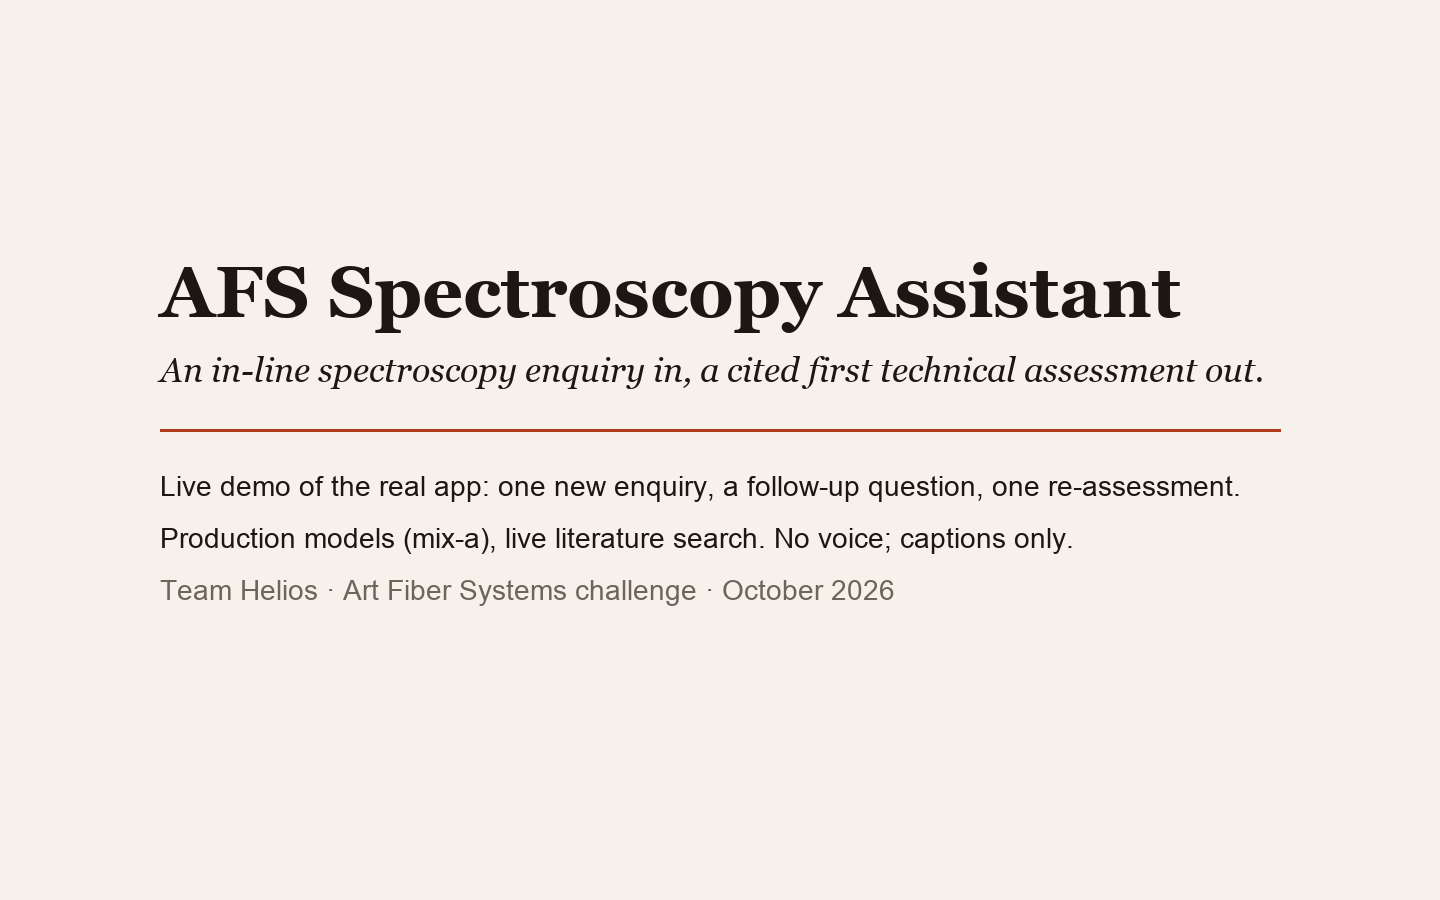
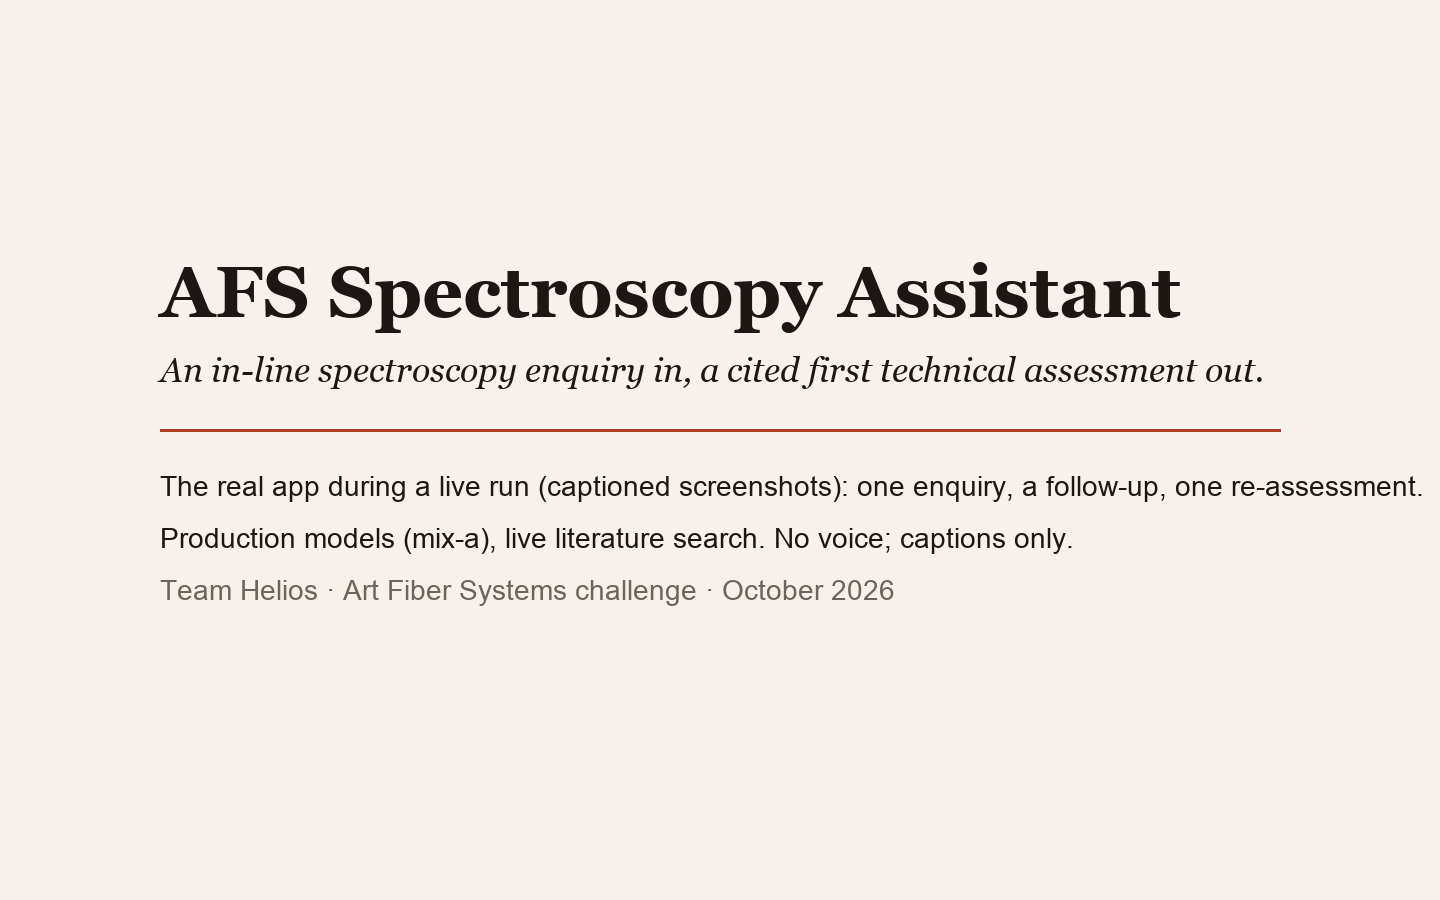
Video title card: captioned screenshots of a live run (not 'live demo'); SUBMISSION video length 2:53

Changed region(s): [[0.0938, 0.5289, 1.0, 0.56]]

diff --git a/docs/video/build_video.py b/docs/video/build_video.py
@@ -96,7 +96,7 @@ def card_title():
     d.text((160, 350), "An in-line spectroscopy enquiry in, a cited first technical assessment out.",
            font=font(GEO_I, 34), fill=INK)
     d.line([(160, 430), (1280, 430)], fill=RED, width=3)
-    for i, t in enumerate(["Live demo of the real app: one new enquiry, a follow-up question, one re-assessment.",
+    for i, t in enumerate(["The real app during a live run (captioned screenshots): one enquiry, a follow-up, one re-assessment.",
                            "Production models (mix-a), live literature search. No voice; captions only.",
                            "Team Helios · Art Fiber Systems challenge · October 2026"]):
         d.text((160, 470 + i * 52), t, font=font(ARIAL, 28), fill=MUTED if i == 2 else INK)

diff --git a/docs/SUBMISSION.md b/docs/SUBMISSION.md
@@ -27,7 +27,7 @@ A chat assistant that turns an in-line spectroscopy customer enquiry into a cite
 - `README.md`: setup with uv, commands, results and known limitations.
 - `ARCHITECTURE.md`: components, data flow and diagram.
 - `docs/slides/slides.pdf`: 10 slides.
-- `docs/video/demo.mp4`: 2:25 demo: captioned screenshots of the real app during a live run.
+- `docs/video/demo.mp4`: 2:53 demo: captioned screenshots of the real app during a live run.
 - `outputs/final/H01–H06` (`.md` + `.json`) and `outputs/final/REVIEW.md`: the rule-compliance review.
 
 **Repository link:** _to add once the repository is published_.
